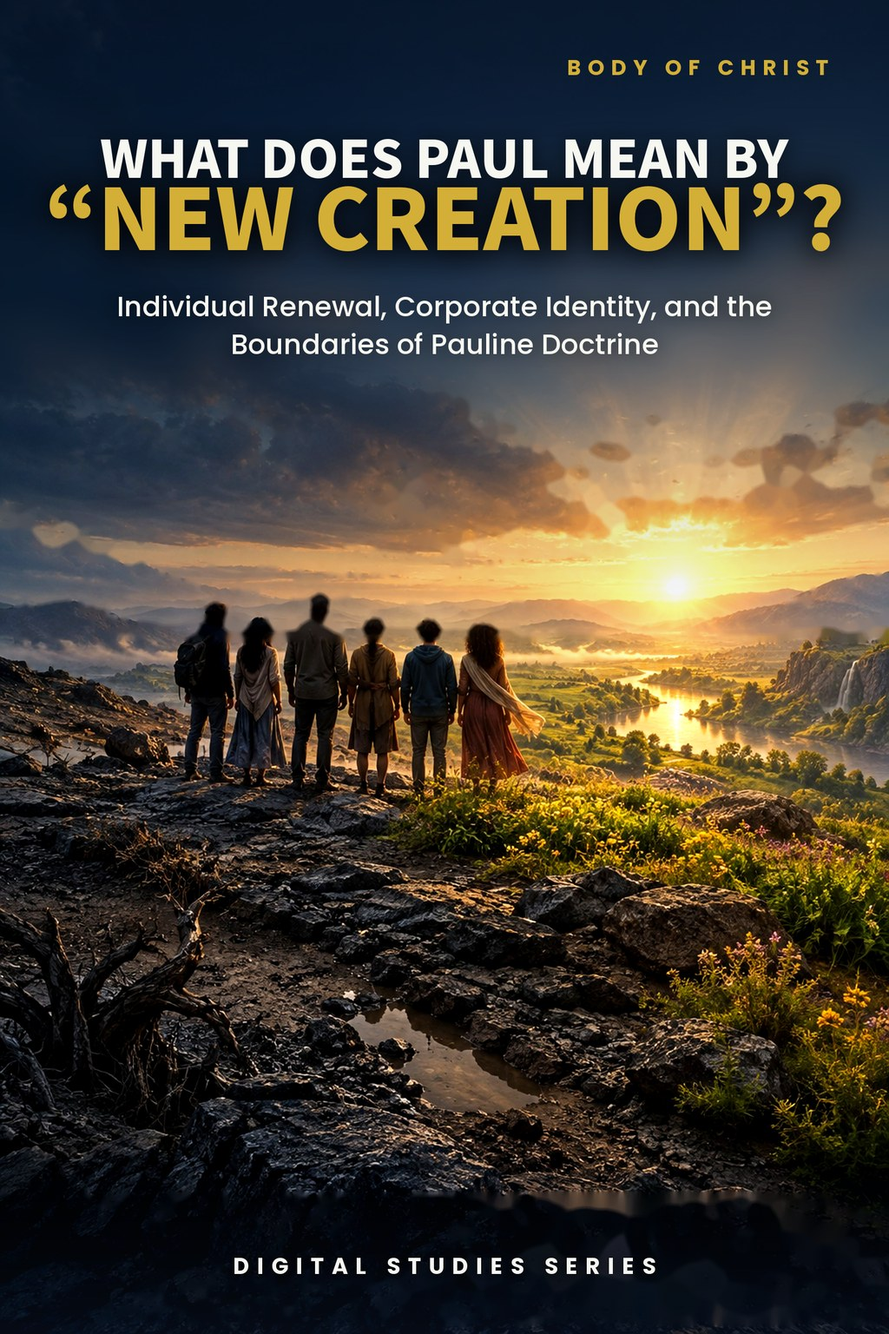
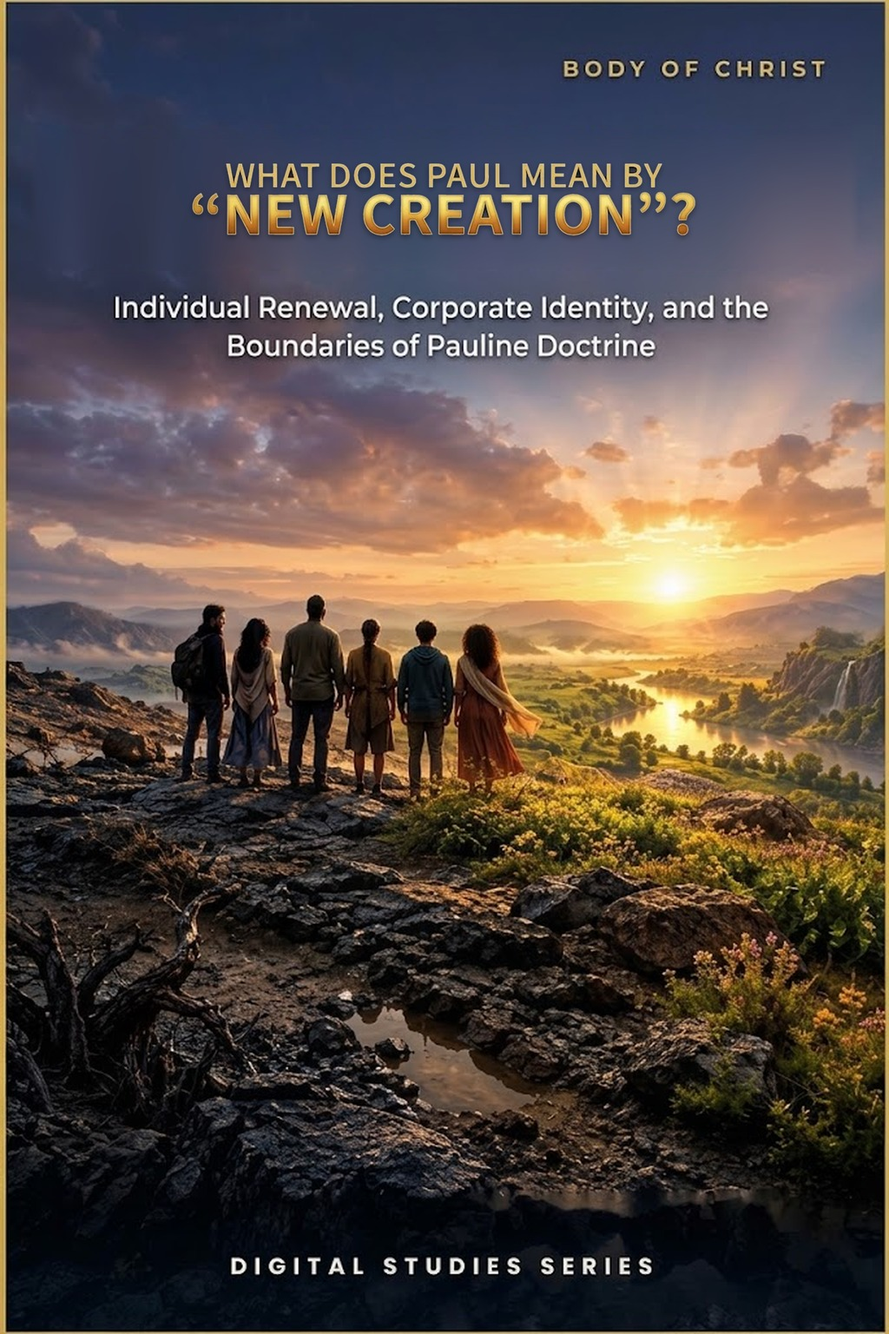
Study 37: Roboto/Standard rebuild, cover title reduced, previews 2/3/5, 16 pages; PAM audit v1.68
Claude-Session: https://claude.ai/code/session_01TLNFW47XCW6YAMUxScR3v4

diff --git a/study-37-what-does-paul-mean-by-new-creation.html b/study-37-what-does-paul-mean-by-new-creation.html
@@ -3,13 +3,13 @@
 <html lang="en"><head><meta charset="utf-8"><meta name="viewport" content="width=device-width,initial-scale=1"><title>What Does Paul Mean by “New Creation”? | Zay-Marie Press</title><meta name="description" content="Examine Paul’s new-creation language, its relationship to renewal and the one Body, and why it does not transfer the Body into Israel’s prophetic identity."><link rel="stylesheet" href="styles.css?v=20260921-4"><link rel="icon" type="image/png" href="assets/zay-marie-press-favicon.png"><style>
 .study-detail-page{background:#fff;color:#252525}.detail-hero{background:linear-gradient(135deg,#f8f5ec,#e3ece2);padding:58px 0}.detail-hero-grid{display:grid;grid-template-columns:minmax(250px,.72fr) minmax(0,1.28fr);gap:58px;align-items:center}.detail-cover{max-width:390px;margin:auto}.detail-cover img{display:block;width:100%;height:auto;box-shadow:0 14px 36px rgba(8,45,69,.18)}.detail-hero h1{font-size:clamp(2.7rem,5vw,4.7rem);line-height:1.02;margin:8px 0 10px;color:#143823}.detail-subtitle{font-family:Georgia,serif;font-size:1.35rem;font-weight:700;color:#082d45;margin:0 0 7px}.detail-kicker{font-family:Georgia,serif;font-style:italic;font-size:1.05rem;color:#4a4a44;margin:0 0 22px}.detail-copy{font-size:1.08rem;line-height:1.65;max-width:760px}.detail-buyline{display:flex;align-items:center;gap:18px;flex-wrap:wrap;margin-top:25px}.detail-price{font-family:Georgia,serif;font-size:2rem;font-weight:700;color:#143823}.detail-format,.preview-card .page-no{font-family:Arial,sans-serif;font-size:.76rem;font-weight:700;letter-spacing:.1em;text-transform:uppercase;color:#176b3a}.detail-button{display:inline-block;background:#176b3a;color:#fff;padding:13px 22px;font-family:Arial,sans-serif;font-size:.8rem;font-weight:700;letter-spacing:.07em;text-transform:uppercase}.detail-button.pending{opacity:.72;cursor:default}.detail-section{padding:66px 0}.detail-section.soft{background:#f6f7f2}.detail-section.cream{background:#faf8f2}.detail-section h2{color:#143823;margin:6px 0 18px;font-size:clamp(2rem,3.4vw,3rem)}.detail-section .lead{max-width:920px;font-size:1.1rem;line-height:1.62}.study-distinction{max-width:920px;margin-top:28px;margin-bottom:28px;padding:26px 28px;background:#fff;border:1px solid #d8d1bf;border-left:4px solid #b8871c}.study-distinction h3{margin:0 0 10px;color:#143823}.study-distinction p{margin:0 0 14px;line-height:1.62}.study-distinction a{font-family:Arial,sans-serif;font-weight:700;color:#176b3a;text-decoration:none}.study-points{display:grid;grid-template-columns:repeat(3,1fr);gap:18px;margin-top:28px;margin-bottom:28px}.study-point,.scripture-card,.preview-card,.include-item{background:#fff;border:1px solid var(--line);text-align:left}.study-point{border-top:3px solid #176b3a;padding:22px}.study-point h3{color:#143823;margin:0 0 8px;font-size:1.2rem}.study-point p,.scripture-card p,.preview-card p,.include-item p{margin:0;line-height:1.55}.scripture-grid{display:grid;grid-template-columns:repeat(4,1fr);gap:14px;margin-top:24px;margin-bottom:24px}.scripture-card{padding:22px 20px;color:#143823}.scripture-card h3{margin:0 0 9px;font-family:Georgia,serif;font-size:1rem;line-height:1.35}.scripture-card p{font-size:.94rem;color:#45453f}.excerpt{max-width:900px;margin:28px auto;border-left:4px solid #b8871c;padding:10px 0 10px 28px}.excerpt blockquote{font-family:Georgia,serif;font-size:clamp(1.45rem,2.5vw,2rem);line-height:1.45;color:#143823;margin:0 0 16px}.excerpt p{line-height:1.6;margin:0}.preview-grid{display:grid;grid-template-columns:repeat(2,1fr);gap:20px;margin-top:28px;margin-bottom:28px}.preview-card{padding:18px;min-height:210px;box-shadow:0 7px 20px rgba(20,40,25,.05)}.preview-image-link{display:block;margin:0 0 18px}.preview-image-link img{display:block;width:100%;height:auto;border:1px solid #d8d1bf;box-shadow:0 8px 22px rgba(20,40,25,.1);transition:transform .18s ease,box-shadow .18s ease}.preview-image-link:hover img{transform:translateY(-2px);box-shadow:0 11px 28px rgba(20,40,25,.16)}.preview-card h3{color:#143823;margin:8px 0 10px}.preview-instruction{margin:10px 0 0;font-family:Arial,sans-serif;font-size:.78rem;letter-spacing:.04em;color:#5b5b55}.includes-grid{display:grid;grid-template-columns:repeat(4,1fr);gap:14px;margin-top:26px}.include-item{padding:22px 20px;color:#143823}.include-item h3{margin:0 0 9px;font-family:Arial,sans-serif;font-size:.86rem;line-height:1.35;letter-spacing:.02em}.include-item p{font-size:.94rem;color:#45453f}.final-buy{background:#082d45;color:#fff;border-top:4px solid #b8871c;padding:42px 48px;display:grid;grid-template-columns:1fr auto;gap:36px;align-items:center}.final-buy .eyebrow,.final-buy h2,.final-buy .detail-price{color:#fff}.final-buy h2{margin:7px 0 6px}.final-buy p{margin:0}.final-offer{text-align:center}.back-link{display:inline-block;margin-top:18px;color:#143823;font-family:Arial,sans-serif;font-weight:700;text-decoration:none}.preview-lightbox{position:fixed;inset:0;z-index:10000;display:none;align-items:flex-start;justify-content:center;background:rgba(8,22,16,.88);padding:24px;overflow:auto}.preview-lightbox.open{display:flex}.preview-lightbox img{display:block;width:auto;height:auto;max-width:none;box-shadow:0 18px 55px rgba(0,0,0,.4);background:#fff}.preview-lightbox-close{position:fixed;top:18px;right:24px;z-index:10001;width:46px;height:46px;border:1px solid rgba(255,255,255,.65);border-radius:50%;background:rgba(0,0,0,.55);color:#fff;font:32px/1 Arial,sans-serif;cursor:pointer}@media(max-width:900px){.detail-hero-grid{grid-template-columns:1fr;gap:34px}.detail-cover{max-width:330px}.study-points{grid-template-columns:repeat(2,1fr)}.scripture-grid,.includes-grid{grid-template-columns:repeat(2,1fr)}.preview-grid,.final-buy{grid-template-columns:1fr}.final-offer{text-align:left}}@media(max-width:560px){.detail-hero{padding:42px 0}.detail-section{padding:50px 0}.study-points,.scripture-grid,.includes-grid{grid-template-columns:1fr}.final-buy{padding:32px 24px}.detail-buyline{align-items:flex-start;flex-direction:column;gap:8px}.preview-lightbox{padding:58px 10px 24px}.preview-lightbox img{width:100%;max-width:100%;height:auto}}</style></head><body class="study-detail-page">
 <header class="site-header"><div class="wrap nav"><a class="logo" href="index.html" aria-label="Zay-Marie Press home"><img src="assets/zay-marie-press-logo-hq.png" alt="Zay-Marie Press" width="420" height="238"></a><button class="menu-toggle" type="button" aria-expanded="false" aria-controls="primary-nav">MENU</button><nav aria-label="Primary navigation" class="primary-nav" id="primary-nav"><a href="index.html">HOME</a><a href="books.html">BOOKS</a><a href="series.html">SERIES</a><a class="active" aria-current="page" href="digital-studies.html">DIGITAL STUDIES</a><a href="biblical-hermeneutics-course.html">COURSE</a><a href="about.html">ABOUT</a><a href="resources.html">RESOURCES</a><a href="contact.html">CONTACT</a></nav></div></header><main>
-<section class="detail-hero"><div class="wrap detail-hero-grid"><div class="detail-cover"><picture><source srcset="assets/study-37-cover.webp" type="image/webp"><img src="assets/study-37-cover.jpg" alt="What Does Paul Mean by New Creation cover"></picture></div><div><div class="eyebrow">BIBLICAL DOCTRINE · DIGITAL STUDY</div><h1>What Does Paul Mean by “New Creation”?</h1><p class="detail-subtitle">Individual Renewal, Corporate Identity, and the Boundaries of Pauline Doctrine</p><p class="detail-kicker">A focused examination of Paul’s language for God’s decisive creative act in Christ</p><p class="detail-copy">Paul declares that in Christ there is a new creation and that neither circumcision nor uncircumcision has governing value. What exactly has God made new, and how does that accomplished reality relate to the believer’s continuing renewal?</p><p class="detail-copy">This study distinguishes new creation, the one new man, practical renewal, newness of life, and future glorification. It also preserves the boundary between the Body’s Pauline identity and Israel’s promised prophetic renewal.</p><div class="detail-buyline"><span class="detail-price">$5.99</span><span class="detail-format">Digital PDF · 15 Pages</span><span class="detail-button pending" aria-disabled="true">Checkout Coming Soon</span></div></div></div></section>
+<section class="detail-hero"><div class="wrap detail-hero-grid"><div class="detail-cover"><picture><source srcset="assets/study-37-cover.webp" type="image/webp"><img src="assets/study-37-cover.jpg" alt="What Does Paul Mean by New Creation cover"></picture></div><div><div class="eyebrow">STUDY 37 · DIGITAL STUDY</div><h1>What Does Paul Mean by “New Creation”?</h1><p class="detail-subtitle">Individual Renewal, Corporate Identity, and the Boundaries of Pauline Doctrine</p><p class="detail-kicker">A focused examination of Paul’s language for God’s decisive creative act in Christ</p><p class="detail-copy">Paul declares that in Christ there is a new creation and that neither circumcision nor uncircumcision has governing value. What exactly has God made new, and how does that accomplished reality relate to the believer’s continuing renewal?</p><p class="detail-copy">This study distinguishes new creation, the one new man, practical renewal, newness of life, and future glorification. It also preserves the boundary between the Body’s Pauline identity and Israel’s promised prophetic renewal.</p><div class="detail-buyline"><span class="detail-price">$5.99</span><span class="detail-format">Digital PDF · 16 Pages</span><span class="detail-button pending" aria-disabled="true">Checkout Coming Soon</span></div></div></div></section>
 <section class="detail-section"><div class="wrap"><div class="eyebrow">ABOUT THIS STUDY</div><h2>New Creation Is More Than a General Metaphor</h2><p class="lead">Paul’s language announces a divine act accomplished in Christ. It describes a real standing and corporate order established by God, not merely a believer’s improved habits, changing emotions, or gradual moral development.</p><p class="lead">At the same time, Scripture also speaks of continuing inward renewal, conduct in newness of life, and the future transformation of the mortal body. Reading those truths together requires careful distinctions between position and practice, individual and corporate dimensions, present possession and future hope.</p><p class="lead">This is not a study of the believer’s whole identity in Christ, which Study 16 surveys broadly, nor of the Israel–Body distinction itself, which Study 4 establishes across every point of contrast, nor of the believer’s present-tense walk by the Spirit, which Study 44 examines from Galatians 5 and Romans 8. Its task is narrower: to test what “new creation” itself asserts — an accomplished standing, not gradual moral improvement — and to keep that accomplished fact distinct from Israel’s own future national renewal.</p><div class="study-distinction"><h3>How These Studies Relate</h3><p>Study 37 examines Paul’s new-creation language as an accomplished reality with individual and corporate dimensions.</p><p><a href="study-16-the-believers-identity-in-christ.html">Study 16 — The Believer's Identity in Christ</a> Start with the larger account of identity and standing in Christ; it places new creation among related blessings while Study 37 tests this expression’s particular meaning and limits.</p><p><a href="study-04-israel-and-the-body-of-christ.html">Study 4 — Israel and the Body of Christ</a> Check the distinct corporate identities of Israel and the Body before assigning Israel’s prophetic restoration promises to Paul’s new creation.</p><p><a href="study-44-walking-in-the-spirit.html">Study 44 — Walking in the Spirit</a> Distinguish this accomplished new-creation standing from the believer's ongoing, present-tense walk by the Spirit, which this study examines from Galatians 5 and Romans 8.</p><p class="connection-guide-link"><a href="study-connections.html#study-37">Explore the full connection guide for Study 37 →</a></p></div></div></section>
-<section class="detail-section soft"><div class="wrap"><div class="eyebrow">WHAT YOU’LL STUDY</div><h2>Distinguish Creation, Renewal, Conduct, and Hope</h2><div class="study-points"><div class="study-point"><h3>Paul’s Actual Language</h3><p>Begin with “new creature” and “new creation” in 2 Corinthians 5:17 and Galatians 6:15 before importing broader theological assumptions.</p></div><div class="study-point"><h3>In Christ</h3><p>Read new creation within union with Christ, reconciliation, changed standing, and God’s accomplished work.</p></div><div class="study-point"><h3>The One New Man</h3><p>Relate personal standing to the corporate creation of Jews and Gentiles in one Body without transferring either group into Israel.</p></div><div class="study-point"><h3>Continuing Renewal</h3><p>Distinguish the decisive creative act from the believer’s ongoing renewal in knowledge, thought, and conduct.</p></div><div class="study-point"><h3>Present and Future</h3><p>Hold present new-creation standing together with mortal weakness and the future glorification of the body.</p></div><div class="study-point"><h3>Programmatic Boundaries</h3><p>Compare Israel’s prophetic renewal and the Body’s Pauline new creation without assuming identity transfer.</p></div></div></div></section>
+<section class="detail-section soft"><div class="wrap"><div class="eyebrow">WHAT YOU’LL STUDY</div><h2>Distinguish Creation, Renewal, Conduct, and Hope</h2><div class="study-points"><div class="study-point"><h3>Paul’s Actual Language</h3><p>Begin with “new creature” and “new creation” in 2 Corinthians 5:17 and Galatians 6:15 before importing broader theological assumptions.</p></div><div class="study-point"><h3>In Christ</h3><p>Read new creation within union with Christ, reconciliation, changed standing, and God’s accomplished work.</p></div><div class="study-point"><h3>The One New Man</h3><p>Relate personal standing to the corporate creation of Jews and Gentiles in one Body without transferring either group into Israel.</p></div><div class="study-point"><h3>Continuing Renewal</h3><p>Compare Paul’s statements about the creative act and about ongoing renewal in knowledge, thought, and conduct.</p></div><div class="study-point"><h3>Present and Future</h3><p>Hold present new-creation standing together with mortal weakness and the future glorification of the body.</p></div><div class="study-point"><h3>Programmatic Boundaries</h3><p>Compare Israel’s prophetic renewal and the Body’s Pauline new creation without assuming identity transfer.</p></div></div></div></section>
 <section class="detail-section cream"><div class="wrap"><div class="eyebrow">KEY SCRIPTURES</div><h2>Follow New-Creation Truth Across Paul’s Argument</h2><div class="scripture-grid"><div class="scripture-card"><h3>2 Corinthians 5:14–21</h3><p>New creation stands within Christ’s death, reconciliation, changed standing, and God’s work.</p></div><div class="scripture-card"><h3>Galatians 6:14–16</h3><p>Neither circumcision nor uncircumcision governs the rule of the new creation.</p></div><div class="scripture-card"><h3>Ephesians 2:10, 15–16</h3><p>God creates believers unto good works and creates Jews and Gentiles in one new man.</p></div><div class="scripture-card"><h3>Ephesians 4:22–24</h3><p>The believer puts off former conduct and puts on the new man in practical life.</p></div><div class="scripture-card"><h3>Colossians 3:9–11</h3><p>The new man is renewed in knowledge according to the image of the Creator.</p></div><div class="scripture-card"><h3>Romans 6:1–14</h3><p>Newness of life describes conduct consistent with identification in Christ’s death and resurrection.</p></div><div class="scripture-card"><h3>Romans 8:18–23</h3><p>The mortal body still awaits redemption, preserving the distinction between present standing and future change.</p></div><div class="scripture-card"><h3>Isaiah 65–66</h3><p>Israel’s prophetic renewal remains tied to Jerusalem, Kingdom restoration, and the future earthly order.</p></div></div></div></section>
 <section class="detail-section"><div class="wrap"><div class="eyebrow">FROM THE STUDY</div><h2>Position and Practice Must Remain Distinct</h2><div class="excerpt"><blockquote>“Creation establishes the believer’s new standing and corporate identity in Christ. Renewal is the continuing work by which the mind and conduct are brought into practical agreement with that God-given reality.”</blockquote><p>The distinction protects both sides of Paul’s teaching: God’s creative act is complete, while responsible conduct and inward renewal remain necessary.</p></div></div></section>
-<section class="detail-section soft"><div class="wrap"><div class="eyebrow">A LOOK INSIDE</div><h2>Preview the Study Before You Purchase</h2><p class="preview-instruction">Click any page to enlarge it for reading.</p><div class="preview-grid"><div class="preview-card"><a class="preview-image-link" data-preview-lightbox href="assets/study-37-page-3.jpg"><img src="assets/study-37-page-3.jpg" alt="Study 37 page 3 learning outcomes, Study Goal, and Study Outline"></a><div class="page-no">Page 3</div><h3>Learning Outcomes and Study Goal</h3><p>Begin with the interpretive controls and distinctions that keep creation, renewal, identity, and hope in their proper places.</p></div><div class="preview-card"><a class="preview-image-link" data-preview-lightbox href="assets/study-37-page-7.jpg"><img src="assets/study-37-page-7.jpg" alt="Study 37 page 7 the rule of the new creation and one new man"></a><div class="page-no">Page 7</div><h3>The Rule of New Creation</h3><p>Read Galatians 6 and Ephesians 2 without making circumcision decisive or transferring the Body into Israel.</p></div><div class="preview-card"><a class="preview-image-link" data-preview-lightbox href="assets/study-37-page-9.jpg"><img src="assets/study-37-page-9.jpg" alt="Study 37 page 9 newness without sinless perfection and prophetic renewal"></a><div class="page-no">Page 9</div><h3>Present Standing and Future Change</h3><p>Distinguish accomplished new creation from practical growth, mortal weakness, and the body’s future glorification.</p></div><div class="preview-card"><a class="preview-image-link" data-preview-lightbox href="assets/study-37-page-11.jpg"><img src="assets/study-37-page-11.jpg" alt="Study 37 page 11 common errors, present doctrine, and conclusion"></a><div class="page-no">Page 11</div><h3>Common Errors and Present Doctrine</h3><p>Test competing claims and bring Paul’s language into a concise doctrinal conclusion for the Body of Christ.</p></div></div></div></section>
+<section class="detail-section soft"><div class="wrap"><div class="eyebrow">A LOOK INSIDE</div><h2>Preview the Study Before You Purchase</h2><p class="preview-instruction">Click any page to enlarge it for reading.</p><div class="preview-grid"><div class="preview-card"><a class="preview-image-link" data-preview-lightbox href="assets/study-37-page-2.jpg"><img src="assets/study-37-page-2.jpg" alt="Study 37 interior preview — page 2, table of contents"></a><div class="page-no">Page 2</div><h3>Table of Contents</h3><p>See the study’s full structure and scope at a glance.</p></div><div class="preview-card"><a class="preview-image-link" data-preview-lightbox href="assets/study-37-page-3.jpg"><img src="assets/study-37-page-3.jpg" alt="Study 37 interior preview — page 3, learning outcomes, Study Goal, and Study Outline"></a><div class="page-no">Page 3</div><h3>Learning Outcomes and Study Goal</h3><p>Begin with the questions, passages, and interpretive controls that govern the study.</p></div><div class="preview-card"><a class="preview-image-link" data-preview-lightbox href="assets/study-37-page-5.jpg"><img src="assets/study-37-page-5.jpg" alt="Study 37 interior preview — page 5, Paul’s wording in 2 Corinthians 5 and the phrase “in Christ”"></a><div class="page-no">Page 5</div><h3>Paul’s Wording and Context</h3><p>Follow the context of 2 Corinthians 5 and the phrase “in Christ” before any definition is drawn.</p></div></div></div></section>
 <section class="detail-section"><div class="wrap"><div class="eyebrow">WHAT’S INCLUDED</div><h2>A Focused Study Built for<br>Doctrinal Precision and Responsible Application</h2><div class="includes-grid"><div class="include-item"><h3>Focused Biblical Study</h3><p>A sustained examination of Paul’s new-creation language and the doctrinal boundaries required to interpret it responsibly.</p></div><div class="include-item"><h3>Twelve Teaching Sections</h3><p>Move from Paul’s wording and governing contexts through identity, renewal, the Acts overlap, and present doctrine.</p></div><div class="include-item"><h3>Contextual Exegesis</h3><p>Examine argument, vocabulary, corporate setting, programmatic context, and the relationship between key passages.</p></div><div class="include-item"><h3>High-Contrast Tables</h3><p>Compare new creation, the one new man, inward renewal, newness of life, glorification, and prophetic renewal.</p></div><div class="include-item"><h3>Scripture-Tracing Exercise</h3><p>Trace creation, reconciliation, renewal, conduct, corporate identity, and future hope across Paul’s letters.</p></div><div class="include-item"><h3>Review Questions</h3><p>Test the difference between position and practice, individual and corporate truth, and present standing and future change.</p></div><div class="include-item"><h3>Teaching Outline</h3><p>Use a ready framework for defining new creation, separating related doctrines, and guarding programmatic boundaries.</p></div><div class="include-item"><h3>Guided Further Study</h3><p>Grouped investigations support deeper work in Corinthians, Galatians, Ephesians, Colossians, Romans, and prophetic renewal.</p></div></div></div></section>
-<section class="detail-section cream"><div class="wrap"><div class="final-buy"><div><div class="eyebrow">BIBLICAL DOCTRINE · DIGITAL STUDY</div><h2>What Does Paul Mean by “New Creation”?</h2><p>Digital PDF · 15 Pages · For personal use</p></div><div class="final-offer"><div class="detail-price">$5.99</div><span class="detail-button pending" aria-disabled="true">Checkout Coming Soon</span></div></div><a class="back-link" href="digital-studies.html">← Back to All Digital Studies</a></div></section><section class="study-method-course-bridge"><div class="wrap"><div class="study-method-course-panel"><div><div class="eyebrow">BUILD THE INTERPRETIVE METHOD</div><h2>Want More Than a Focused Study?</h2><p>Digital Studies examine particular biblical subjects and difficult passages. The 40-lesson Biblical Hermeneutics course teaches a complete, repeatable method for establishing meaning in context, determining proper assignment, and making responsible application.</p></div><a class="btn btn-primary" href="biblical-hermeneutics-course.html">BIBLICAL HERMENEUTICS COURSE</a></div></div></section></main>
+<section class="detail-section cream"><div class="wrap"><div class="final-buy"><div><div class="eyebrow">STUDY 37 · DIGITAL STUDY</div><h2>What Does Paul Mean by “New Creation”?</h2><p>Digital PDF · 16 Pages · For personal use</p></div><div class="final-offer"><div class="detail-price">$5.99</div><span class="detail-button pending" aria-disabled="true">Checkout Coming Soon</span></div></div><a class="back-link" href="digital-studies.html">← Back to All Digital Studies</a></div></section><section class="study-method-course-bridge"><div class="wrap"><div class="study-method-course-panel"><div><div class="eyebrow">BUILD THE INTERPRETIVE METHOD</div><h2>Want More Than a Focused Study?</h2><p>Digital Studies examine particular biblical subjects and difficult passages. The 40-lesson Biblical Hermeneutics course teaches a complete, repeatable method for establishing meaning in context, determining proper assignment, and making responsible application.</p></div><a class="btn btn-primary" href="biblical-hermeneutics-course.html">BIBLICAL HERMENEUTICS COURSE</a></div></div></section></main>
 <div class="preview-lightbox" id="preview-lightbox" role="dialog" aria-modal="true" aria-label="Expanded study preview"><button class="preview-lightbox-close" type="button" aria-label="Close preview">×</button><img id="preview-lightbox-image" alt=""></div><footer class="site-footer"><div class="wrap footer-grid"><div class="footer-about"><h3>Zay-Marie Press</h3><p class="footer-tagline"><em>Where the Bible Means What It Says.</em></p><p>Zay-Marie Press is a Christian theological publisher dedicated to producing doctrinally precise, carefully structured biblical resources that equip pastors, teachers, and serious students with clarity, depth, and Scripture-anchored truth.</p><p><a href="https://zaymariepress.com">zaymariepress.com</a><br><a href="mailto:info@zaymariepress.com">info@zaymariepress.com</a></p></div><div class="footer-column"><h3>Explore</h3><div class="footer-links-stacked"><a href="books.html">Books</a><br><a href="series.html">Series</a><br><a href="biblical-hermeneutics-course.html">Course</a><br><a href="digital-studies.html">Digital Studies</a><br><a href="resources.html">Resources</a><br><a href="bible-book-summaries.html">Bible Book Summaries</a><br><a href="doctrinal-packets.html">Doctrinal Packets</a><br><a href="historical-drift.html">Historical Drift</a><br><a href="about.html">About</a><br><a href="contact.html">Contact</a></div></div><div class="footer-column"><h3>Reader Support</h3><div class="footer-links-stacked"><a href="reader-support.html#faq">FAQ</a><br><a href="reader-support.html#shipping-returns">Shipping &amp; Returns</a><br><a href="reader-support.html#digital-downloads">Digital Downloads</a><br><a href="reader-support.html#contact-support">Contact Support</a></div></div><div class="footer-column"><h3>Acts Overlap</h3><p><strong>Acts Overlap Theology Series</strong></p><p><em>Two Distinct Streams. One Overlap.</em></p><p><a href="series.html">Series Overview</a></p></div></div><div class="wrap footer-bottom">© 2026 Zay-Marie Press. All rights reserved.</div></footer><script src="site.js"></script><script>const lightbox=document.getElementById('preview-lightbox'),lightboxImage=document.getElementById('preview-lightbox-image'),closeLightbox=()=>{lightbox.classList.remove('open');lightboxImage.src='';};document.querySelectorAll('[data-preview-lightbox]').forEach(link=>link.addEventListener('click',event=>{event.preventDefault();lightboxImage.src=link.href;lightboxImage.alt=link.querySelector('img').alt;lightbox.classList.add('open');}));document.querySelector('.preview-lightbox-close').addEventListener('click',closeLightbox);lightbox.addEventListener('click',event=>{if(event.target===lightbox)closeLightbox();});document.addEventListener('keydown',event=>{if(event.key==='Escape')closeLightbox();});</script><script type="module" src="https://static.cloudflareinsights.com/beacon.min.js/v31edd6df95cf4e85bb4c19e7a9bdbcba1788362987495" integrity="sha512-iIg7k2xntmwu6/uSb5tpc/hySgZc4eoL31yB29W6tJFo2akwjPWcEqnCEdJvGexCL0KEQwVYv5BlowfhVz26hg==" data-cf-beacon='{"version":"2024.11.0","token":"4badd691d9c04f819c55899bff00fd5c","r":1,"spa":2}' crossorigin="anonymous"></script>
 </body></html>

diff --git a/site.js b/site.js
@@ -62,7 +62,7 @@ const resourceModal=document.querySelector('#resource-modal'), resourceModalTitl
 if(resourceModal&&resourceModalTriggers.length){const closeResourceModal=()=>{resourceModal.hidden=true;document.body.classList.remove('resource-modal-open');lastResourceTrigger?.focus();};resourceModalTriggers.forEach(trigger=>trigger.addEventListener('click',()=>{lastResourceTrigger=trigger;if(resourceModalTitle)resourceModalTitle.textContent=trigger.dataset.title||'Resource';if(resourceModalDescription)resourceModalDescription.textContent=trigger.dataset.description||'';if(resourceModalLink){resourceModalLink.href=trigger.dataset.href||'#';resourceModalLink.textContent=trigger.dataset.linkText||'OPEN RESOURCE';}resourceModal.hidden=false;document.body.classList.add('resource-modal-open');resourceModalClose?.focus();}));resourceModalClose?.addEventListener('click',closeResourceModal);resourceModal.addEventListener('click',e=>{if(e.target===resourceModal)closeResourceModal();});document.addEventListener('keydown',e=>{if(e.key==='Escape'&&!resourceModal.hidden)closeResourceModal();});}
 
 /* Display the verified final-PDF page count at the primary purchase decision point. */
-const digitalStudyPageCounts={1:14,2:14,3:18,4:18,5:16,6:16,7:16,8:16,9:16,10:23,11:15,12:14,13:18,14:15,15:16,16:16,17:18,18:18,19:16,20:16,21:16,22:16,23:16,24:16,25:17,26:18,27:16,28:16,29:16,30:17,31:19,32:16,33:16,34:16,35:16,36:16,37:15,38:16,39:16,40:15,41:15,42:15,43:17,44:15,45:15,46:15,47:16,48:15,49:14,50:14,51:15,52:15,53:15,54:15,55:16,56:16,61:16,62:16,63:16,64:16,65:16,66:16,67:16,68:16,69:16,70:16,71:16};
+const digitalStudyPageCounts={1:14,2:14,3:18,4:18,5:16,6:16,7:16,8:16,9:16,10:23,11:15,12:14,13:18,14:15,15:16,16:16,17:18,18:18,19:16,20:16,21:16,22:16,23:16,24:16,25:17,26:18,27:16,28:16,29:16,30:17,31:19,32:16,33:16,34:16,35:16,36:16,37:16,38:16,39:16,40:15,41:15,42:15,43:17,44:15,45:15,46:15,47:16,48:15,49:14,50:14,51:15,52:15,53:15,54:15,55:16,56:16,61:16,62:16,63:16,64:16,65:16,66:16,67:16,68:16,69:16,70:16,71:16};
 const digitalStudyMatch=window.location.pathname.match(/\/study-(\d+)-/i);
 const digitalStudyFormat=document.querySelector('.detail-hero .detail-format');
 if(digitalStudyMatch&&digitalStudyFormat){const studyNumber=Number(digitalStudyMatch[1]),pageCount=digitalStudyPageCounts[studyNumber];if(pageCount)digitalStudyFormat.textContent=`Digital PDF · ${pageCount} Pages`;}

diff --git a/controlling-documents/Digital_Studies_PAM_Audit_v1.68.md b/controlling-documents/Digital_Studies_PAM_Audit_v1.68.md
@@ -1,4 +1,4 @@
-# Digital Studies vs. PAM Audit — v1.67
+# Digital Studies vs. PAM Audit — v1.68
 
 Working tracker and instructions for checking the Digital Studies against the Program Assignment Manual (PAM), §XIX of `Framework_Control_Document_Acts_Overlap.docx`, including its "Section 4 — Publisher Rulings". Same `_vX.Y` convention as the other controlling documents: update the status table and changelog as the audit proceeds, bump the version, and rename the file to match.
 
@@ -297,3 +297,4 @@ Study 15 PDF not yet supplied. Typography: none of Studies 2, 3, 6, 8 is in EB G
 - v1.65 (2026-10-01): Study 35 (Who Is the Israel of God?) read in full against the PAM and Framework from the publisher's DOCX (about 13 interior pages in source): two conflicts with the Gal 6:16 / remnant rulings, corrected at the publisher's direction. (1) §6 "believing Israel—Israelites who acknowledge…" became "believing Jews within the Body—Israelites by identity who acknowledge…"; (2) "a faithful remnant of Israel remains visible while Paul's Mystery ministry gathers the Body" became "believing Jews are gathered into the Body through Paul's Mystery ministry; they remain Israelites by identity, and the remnant Paul names is made up of them." The same correction was applied to the Conclusion, Teaching Outline 5, Summary bullet 1 and the §6 readings-table cell. The remnant clarifier ("This speaks of identity, not program membership; the remnant is ethnic-covenantal, and believing Jews are gathered into the Body during the Mystery administration") was added to §10 and the Summary remnant bullet; "Gentiles participate spiritually" was added to the Galatians 3:26–29 paragraph. Galatians 2:7–9 reported without further assignment (PAM silent). Acts overlap, Rom 9–11, Eph 2:11–18, Rom 2–4, 1 Cor 10:32, Phil 3, Col 2 and 2 Cor 5 clear. Spoiler fixes (§17): What You Will Learn bullets 5 and 7 and the Study Goal rewritten as process lines; website What You'll Study left (already process wording). Five callouts already; rebuilt to the Roboto/Standard format (title page and typed numerals removed, TOC rebuilt flat, Study Outline and Teaching Outline as bullets); one neutral KJV table added to the Scripture-Tracing section; 15 interior pages plus cover (16 total, site.js 35:16). Cover: the website cover as is, scaled to 1600×2400 with the ISRAEL & PROPHECY label, "ISRAEL OF GOD?" reduced 35% (background rebuilt). Previews: pages 2, 3 and 5 (replace pages 2, 3 and 6). Hero and final-buy eyebrows changed from BIBLICAL DOCTRINE to STUDY 35 · DIGITAL STUDY; page counts 15 → 16. The standing drafting rules (PAM Rules 7–10, v1.64) now cover this wording going forward. Pushed after the publisher's approval.
 - v1.66 (2026-10-01): Rule 7 amended from the Study 36 check (publisher ruling): Peter's believing company and the circumcision apostleship during Acts 9–28 may be described as under the Prophecy Program only with the identity clarification; no believing Israelite is placed outside the Body after Acts 9. Framework Rule 7 paragraph added; Master Standard v1.33 → v1.34 (§20, Rule 7; DOCX and PDF renamed and regenerated); CLAUDE.md updated in the same pass.
 - v1.67 (2026-10-01): Study 36 (Jews, Gentiles, and the Church of God) read in full against the PAM and Framework from the publisher's DOCX (about 13 interior pages in source): no conflicts; Rule 7 wording applied. The remnant clarifier ("This speaks of identity, not program membership; the remnant is ethnic-covenantal, and believing Jews are gathered into the Body during the Mystery administration") was added to §11 ¶1 and the Key Distinctions remnant row; Review Question 10 ("Why must the believing remnant not be collapsed into the Body…") was reworded to compare the remnant (identity category) with the Body (administrative category); the §10 table's "Israel, the remnant, circumcision apostleship" became "Israel and the circumcision apostleship". One new publisher ruling, now Rule 7 (Framework, Master Standard v1.34, CLAUDE.md): Peter's believing company and the circumcision apostleship during Acts 9–28 may be described as under the Prophecy Program only with the clarification "During the overlap, the circumcision apostleship ministers to Israel under the Prophecy Program; believing Jews are gathered into the Body through Paul's ministry, and this speaks of identity, not program membership"; no believing Israelite is placed outside the Body after Acts 9. The clarification was added in the §10 intro, §11 ¶2 and the Conclusion. Galatians 2:7–9 reported as text with two entrusted spheres, no further assignment. Acts overlap, 1 Cor 12:13, Eph 2–3, Rom 1–3, 9–11 and 15, Gal 3 and Phil 3 clear. Spoiler fixes (§17): What You Will Learn bullets 2–7 and the Study Goal rewritten as process lines; website What You'll Study points 4 and 6 reworded. Five callouts already (CATEGORY CONTROL split from its table). Rebuilt to the Roboto/Standard format; one neutral KJV table of 17 passages added to the Scripture-Tracing section; 15 interior pages plus cover (16 total, site.js 36:16). Cover: publisher-supplied finished cover (680×1024, scaled up), FOUNDATIONS label, title reduced 40% and hyphenated on the cover only ("THREE-FOLD"; the study subtitle and website still read "Threefold"). Previews: pages 2, 3 and 5 (replace four prior previews on pages 3, 6, 8, 11). Hero and final-buy eyebrows changed from BIBLICAL DOCTRINE to STUDY 36 · DIGITAL STUDY; page counts 15 → 16. Pushed after the publisher's approval.
+- v1.68 (2026-10-01): Study 37 (What Does Paul Mean by "New Creation"?) read in full against the PAM and Framework from the publisher's DOCX (REVISED; about 13 interior pages in source): no conflicts; Rule 7 wording applied under the standing rules. "As Study 35 demonstrates" became "As Study 35 examines" (pointer only, PAM Rule 3); the Rule 7 Gal 6:16 sentence ("Read in the context of Galatians 6:16, the expression refers to believing Jews within the Body—Israelites by identity") was added in §6; the remnant clarifier was added in a note after the §10 table; the overlap clarification was added to §11. Acts overlap, Mystery from Acts 9, Acts 28 national judicial suspension, 2 Cor 5 judgment-seat context (Mystery), Eph 2–3, Rom 6/8/12, Isaiah 65–66, Ezekiel 36–37 and Jeremiah 31 (Prophecy Program; Body not a party) all clear. Spoiler fixes (§17): What You Will Learn bullets 3–7 and the Study Goal rewritten as process lines; website What You'll Study "Continuing Renewal" reworded. Seven callouts reduced to five boxed (Scope of This Study and Context Control became run-ins); three unnumbered H1s and two H3s became H2 subsections; rebuilt to the Roboto/Standard format; one neutral KJV table of 16 passages added to the Scripture-Tracing section; 15 interior pages plus cover (16 total, site.js 37:16). Cover: publisher-supplied finished cover (685×1024, scaled up), BODY OF CHRIST label, title reduced 25% and then a further 15% (about 64% of original; background rebuilt). Previews: pages 2, 3 and 5 (replace pages 3, 7, 9, 11). Hero and final-buy eyebrows changed from BIBLICAL DOCTRINE to STUDY 37 · DIGITAL STUDY; page counts 15 → 16. Pushed after the publisher's approval.
